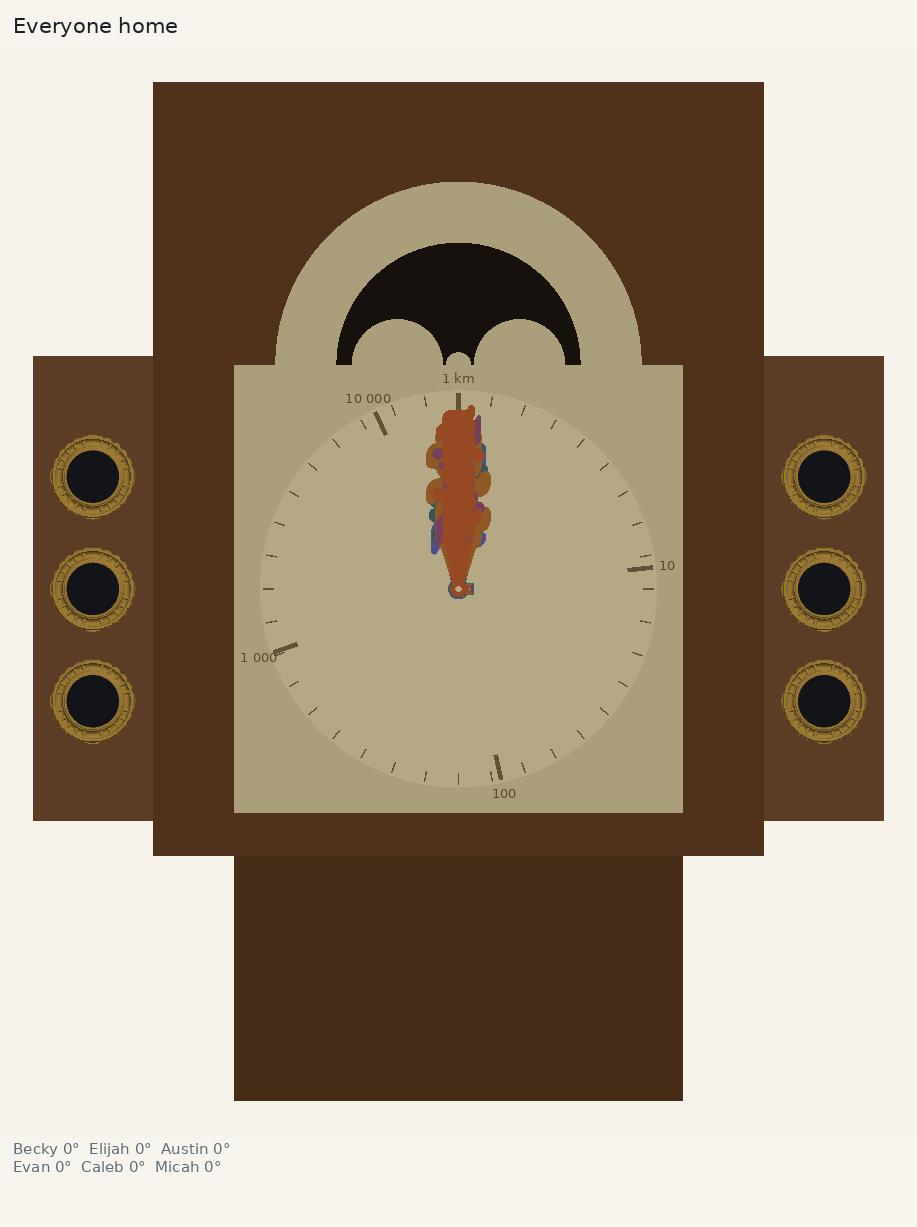
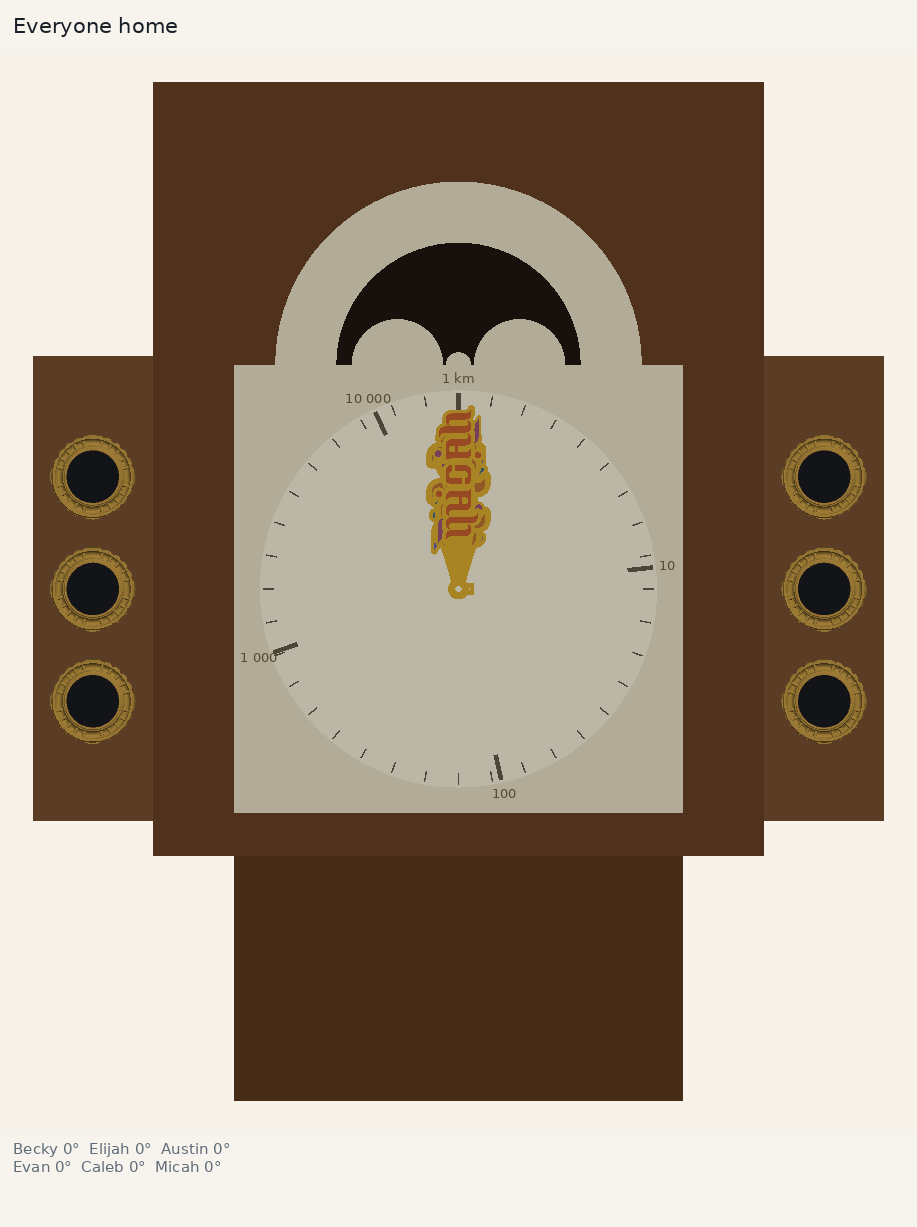
Render the hands gilt, at the positions the MATLAB sim uses
The distances were made up. They now come from birthday_clock.m's own
table -- Minnetonka home, Becky at the high school, Elijah in St Paul,
Caleb in Wheaton, Austin in Boulder, Micah in Corvallis, Evan in
Warsaw -- through clockd.geo, which is the same haversine and the same
log map the sim uses, so the angles match: 0, 127, 229, 255, 282 and
325 degrees.

The hands are gilt with the raised name picked out. build_hands.py
emits each hand as one solid, which is right for printing and wrong
for looking at, so the renderer parts it by height: the 0.6 mm of
lettering standing proud of the 2.5 mm plate takes the accent. The
accent is per person rather than one colour, because six gilt hands
with one accent stop being readable the moment two cross; --accent
forces a single colour. The dial is silvered so the gilt separates
from it, which is also how these clocks were actually finished.

Drops the two invented-distance panels.

Claude-Session: https://claude.ai/code/session_01JvvEXSd8Xn8tCPeiWQdjqn

Changed region(s): [[0.2443, 0.1239, 0.7634, 0.6813]]

diff --git a/tools/render_front.py b/tools/render_front.py
@@ -70,7 +70,10 @@ HAND_FILE = {
     "Becky": "1-becky-halo", "Evan": "2-evan-halo", "Elijah": "3-elijah-halo",
     "Caleb": "4-caleb-halo", "Austin": "5-austin-halo", "Micah": "6-micah-halo",
 }
-#: Only so six overlapping hands can be told apart; they print black.
+#: The hands read as gilt brass, with the raised name picked out. The accent
+#: is per person by default: one colour for all six would be handsome and
+#: unreadable the moment two hands cross. ``--accent`` overrides it.
+GOLD = "#C69A2B"
 PERSON_RGB = {
     "Becky": "#4F7A4A", "Evan": "#5B5EA6", "Elijah": "#3E6470",
     "Caleb": "#A8672B", "Austin": "#8A4B6B", "Micah": "#B0562A",
@@ -78,15 +81,18 @@ PERSON_RGB = {
 
 PLATE_TOP = 2.4
 HAND_GAP = 3.5
+#: The plate is 2.5 mm and the name stands 0.6 mm proud of it, so faces above
+#: this are the lettering and get the accent.
+HAND_T = 2.5
 WALNUT = "#5E3B21"
 TRUNK = "#53341D"
-DIAL = "#C8B98F"
+DIAL = "#CFC8B0"
 BRASS = "#B08A3C"
 GLASS = "#16181C"
 INTERIOR = "#1A140E"
-DISC = "#D3C49C"
+DISC = "#DBD5C1"
 WING = "#6B462A"
-ENGRAVE = "#6E6042"
+ENGRAVE = "#595242"
 
 #: The chapter ring. One decade of distance is 360/log10(pi*6371) = 83.7
 #: degrees, and the ring is machined for that scale rather than for hours.
@@ -94,28 +100,38 @@ RING_IN, RING_OUT = 110.0, 122.0
 DECADE_KM = (1.0, 10.0, 100.0, 1_000.0, 10_000.0)
 DECADE_LABEL = ("1 km", "10", "100", "1 000", "10 000")
 
-#: The positions to render. Distances in km, per person.
-VIEWS: list[tuple[str, str, dict[str, float]]] = [
-    (
-        "all-home", "Everyone home",
-        dict.fromkeys(LEVELS, 0.0),
-    ),
-    (
-        "decades", "One hand per decade",
-        {"Becky": 1.0, "Evan": 10.0, "Elijah": 100.0,
-         "Caleb": 1_000.0, "Austin": 10_000.0, "Micah": 3_000.0},
-    ),
-    (
-        "a-tuesday", "A normal Tuesday",
-        {"Becky": 0.0, "Evan": 14.0, "Elijah": 4.0,
-         "Caleb": 2.0, "Austin": 1_450.0, "Micah": 6.0},
-    ),
-    (
-        "austin-away", "Austin in Boulder, everyone else home",
-        {"Becky": 0.0, "Evan": 0.0, "Elijah": 0.0,
-         "Caleb": 0.0, "Austin": 1_450.0, "Micah": 0.0},
-    ),
-]
+#: Home and the six real locations, from ``birthday_clock.m``.
+HOME = (44.9109, -93.5017)  # Minnetonka, MN
+WHERE = {
+    "Becky": (44.9109, -93.5017),    # Minnetonka High School, MN
+    "Evan": (52.2297, 21.0122),      # Warsaw, Poland
+    "Elijah": (44.9537, -93.0900),   # St Paul, MN
+    "Caleb": (41.8661, -88.1070),    # Wheaton, IL
+    "Austin": (40.0150, -105.2705),  # Boulder, CO
+    "Micah": (44.5646, -123.2620),   # Corvallis, OR
+}
+
+
+def views() -> list[tuple[str, str, dict[str, float]]]:
+    """The positions to render, as distances in km per person.
+
+    The first is the real one: the same six places ``birthday_clock.m`` plots,
+    through the same haversine and the same log map, so the angles here are
+    the angles that sim produces. The other two are there to read it by.
+    """
+    from clockd import geo
+
+    actual = {
+        person: geo.haversine_km(HOME[0], HOME[1], lat, lon)
+        for person, (lat, lon) in WHERE.items()
+    }
+    return [
+        ("actual", "Where everyone actually is", actual),
+        ("all-home", "Everyone home", dict.fromkeys(LEVELS, 0.0)),
+        ("decades", "One hand per decade",
+         {"Becky": 1.0, "Evan": 10.0, "Elijah": 100.0,
+          "Caleb": 1_000.0, "Austin": 10_000.0, "Micah": 3_000.0}),
+    ]
 
 
 def rgb(value: str) -> np.ndarray:
@@ -253,10 +269,24 @@ def build_scene(root: Path) -> Scene:
     for level, person in enumerate(LEVELS, start=1):
         hand = trimesh.load(str(root / f"cad/hands/{HAND_FILE[person]}.stl"))
         hand.apply_translation((0, 0, PLATE_TOP + 1.5 + (level - 1) * HAND_GAP))
-        hands[person] = hand
+        hands[person] = split_relief(hand)
 
-    probe = fixed + [(h, rgb("#000000")) for h in hands.values()]
+    probe = fixed + [(part, rgb("#000000"))
+                     for pair in hands.values() for part in pair]
     return Scene(fixed=fixed, hands=hands, bounds=preview3d.scene_bounds(probe))
+
+
+def split_relief(hand):
+    """Separate a hand into its plate and the name standing proud of it.
+
+    The two come out of ``build_hands.py`` as one solid, which is right for
+    printing and wrong for looking at: the whole point of the lettering is
+    that it catches the light differently. Faces above the plate's top are
+    the name, so one height test parts them.
+    """
+    base_z = hand.bounds[0][2]
+    high = hand.triangles_center[:, 2] > base_z + HAND_T + 0.05
+    return hand.submesh([~high], append=True), hand.submesh([high], append=True)
 
 
 def place(hand, angle_deg: float):
@@ -275,14 +305,17 @@ def place(hand, angle_deg: float):
     return turned
 
 
-def render_view(scene: Scene, distances: dict[str, float], size: int) -> np.ndarray:
+def render_view(scene: Scene, distances: dict[str, float], size: int,
+                accent: str | None = None) -> np.ndarray:
     """One panel: the fixed parts plus the six hands at these distances."""
     from clockd import geo
 
     parts = list(scene.fixed)
     for person in LEVELS:
         angle = geo.distance_to_angle(distances[person])
-        parts.append((place(scene.hands[person], angle), rgb(PERSON_RGB[person])))
+        plate, letters = scene.hands[person]
+        parts.append((place(plate, angle), rgb(GOLD)))
+        parts.append((place(letters, angle), rgb(accent or PERSON_RGB[person])))
     return preview3d.render_scene(parts, size=size, bounds=scene.bounds)
 
 
@@ -353,6 +386,10 @@ def main(argv: list[str] | None = None) -> int:
     parser.add_argument("--out", type=Path, default=Path("docs/img/front"))
     parser.add_argument("--size", type=int, default=900)
     parser.add_argument("--only", default=None, help="render just this view by slug")
+    parser.add_argument(
+        "--accent", default=None, metavar="HEX",
+        help="one colour for every raised name, e.g. #1E2228, instead of per person",
+    )
     args = parser.parse_args(argv)
 
     from clockd import geo
@@ -370,10 +407,10 @@ def main(argv: list[str] | None = None) -> int:
     print(f"  {len(scene.fixed)} fixed parts, 6 hands\n")
 
     panels = []
-    for slug, title, distances in VIEWS:
+    for slug, title, distances in views():
         if args.only and slug != args.only:
             continue
-        image = render_view(scene, distances, args.size)
+        image = render_view(scene, distances, args.size, args.accent)
         lines = [
             "  ".join(
                 f"{p} {geo.distance_to_angle(distances[p]):.0f}°"
@@ -388,7 +425,7 @@ def main(argv: list[str] | None = None) -> int:
         print(f"  wrote {path.name}")
 
     if len(panels) > 1:
-        cols = 2
+        cols = min(len(panels), 3)
         rows = -(-len(panels) // cols)
         w, h = panels[0].size
         sheet = Image.new("RGB", (cols * w, rows * h), (247, 244, 238))

diff --git a/docs/img/front/README.md b/docs/img/front/README.md
@@ -1,19 +1,40 @@
 # Front renders
 
-From `python tools/render_front.py`. Square on to the clock, the six hands at
-four sets of distances.
+From `python tools/render_front.py`. Square on to the clock, with the hands
+where `birthday_clock.m` puts them.
 
 | File | What |
 |---|---|
-| `front-all.png` | all four panels on one sheet |
+| `front-actual.png` | the real positions, from the MATLAB sim's six locations |
 | `front-all-home.png` | everyone home — six hands stacked at 12 o'clock |
 | `front-decades.png` | one hand per decade, so the log scale reads as angles |
-| `front-a-tuesday.png` | ordinary distances, 2–14 km |
-| `front-austin-away.png` | Austin in Boulder, everyone else home |
+| `front-all.png` | all three on one sheet |
 
 Built from the parts that exist: the measured `Clock_Face_1.3mf` dial plate,
 the six option-D hands, the six ornate bezels. The hood board and its opening
 are Caleb's measurements.
+
+## The positions
+
+`birthday_clock.m`'s own table, through `clockd.geo` — the same haversine and
+the same log map, so these are the angles that sim produces. Home is
+Minnetonka, MN.
+
+| | Where | Distance | Angle |
+|---|---|---|---|
+| Becky | Minnetonka High School, MN | 0 km | 0° |
+| Elijah | St Paul, MN | 33 km | 127° |
+| Caleb | Wheaton, IL | 552 km | 229° |
+| Austin | Boulder, CO | 1 107 km | 255° |
+| Micah | Corvallis, OR | 2 338 km | 282° |
+| Evan | Warsaw, Poland | 7 537 km | 325° |
+
+## Colour
+
+The hands are gilt with the raised name picked out in that person's colour.
+One accent colour for all six would be handsome and unreadable the moment two
+hands cross, so the accent is per person; `--accent "#1E2228"` forces a single
+colour. The dial is silvered so the gilt separates from it.
 
 ## What is assumed, not measured
 
@@ -26,5 +47,5 @@ are Caleb's measurements.
 * **The chapter ring.** The hardware plan calls for one machined for the log
   scale but does not draw it. These ticks are every 10 degrees with the five
   decades marked, which is the scale `clockd.geo` actually implements.
-* **The hand colours.** The hands print in black PLA. They are coloured per
-  person here only so six overlapping hands can be told apart.
+* **The finish.** The hands print in black PLA; the gilt and the accents are
+  what they would look like painted, not what comes off the printer.
